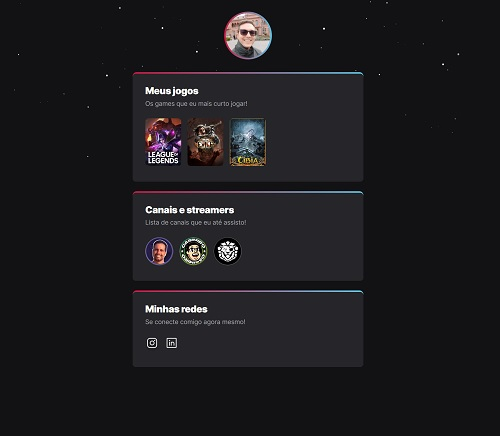
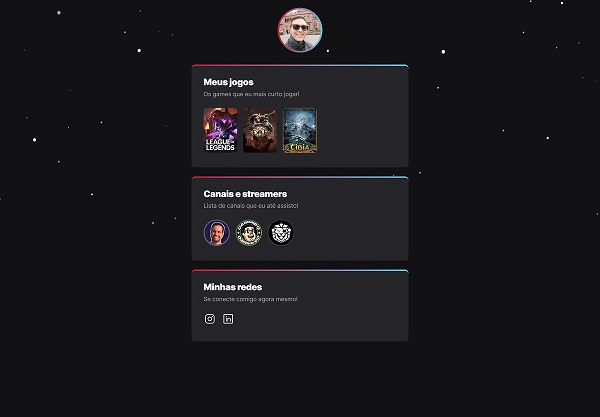
changes

Changed region(s): [[0.27, 0.0, 0.72, 0.8106]]

diff --git a/style.css b/style.css
@@ -147,10 +147,14 @@ h1 {
 
 #home h1 {
   display: block;
-  width: fit-content;
+  /* width: fit-content; */
+  justify-content: center;
   position: relative;
-  margin: 10px 0px;
-  font-size: 3.5rem;
+  margin: 20px 0px;
+  padding-right: 200px;
+  font-size: 3.6rem;
+  word-break: normal;
+  text-align: center;
 }
 
 #home h3 {
@@ -326,7 +330,7 @@ h1 {
 
 #projects .projects {
   max-width: 1200px;
-  padding: 50px 5%;
+  padding: 50px 6%;
   margin: 0 auto;
   flex-direction: column;
   text-align: center;
@@ -347,9 +351,10 @@ h1 {
   justify-content: center;
   flex-direction: column;
   overflow: hidden;
-  border-radius: 10px;
+  border-radius: 20px;
   background-color: #070707;
   margin-bottom: 20px;
+  
 }
 
 #projects .projects .all-projects .project-info h3 {
@@ -360,40 +365,39 @@ h1 {
   padding: 3%;
   flex-basis: 50%;
   display: flex;
-  align-items: center;
   justify-content: center;
   flex-direction: column;
   background: linear-gradient(180deg, #202020 10%, var(--third-bg-color) 100%);
   text-align: justify;
 }
 
-#projects .project-info h1 {
-  font-weight: 500;
-  text-align: center;
-}
 
 #projects .project-info h2 {
   font-size: 1.5rem;
   font-weight: 600;
   margin-top: 5px;
   margin-bottom: 5px;
-  text-align: center;
+  text-align: left;
 }
 
 #projects .project-info h3 {
   font-weight: 400;
   margin-bottom: 10px;
   text-align: center;
+  text-align: left;
 }
 
 #projects .project-img {
   flex-basis: 50%;
   overflow: hidden;
   position: relative;
-  background-color: var(--bg-color);
+  background-size: cover;
+  background-position: center;
+  background-repeat: no-repeat;
+  cursor: pointer;
 }
 
-#projects .project-img::after {
+/* #projects .project-img::after {
   content: "";
   position: absolute;
   left: 0;
@@ -402,13 +406,13 @@ h1 {
   width: 100%;
   background-color: black;
   opacity: 0.5;
-}
+} */
 
 #projects .project-img img {
   transition: 0.3s ease transform;
 }
 
-#projects .project-item:hover .project-img img {
+#projects .project-img:hover img {
   transform: scale(1.1);
 }
 
@@ -429,9 +433,9 @@ h1 {
 }
 
 #contact .icon {
-  font-size: 40px;
+  font-size: 50px;
   margin: 0 auto;
-  margin-bottom: 5px;
+  margin-bottom: 10px;
 }
 
 #contact .contact {
@@ -444,21 +448,18 @@ h1 {
   overflow: hidden; */
 }
 
-#contact .contact-items {
-}
-
 #contact .contact-item {
   background-color: var(--third-bg-color);
   text-align: center;
   border-radius: 10px;
   margin: 40px;
-  padding: 20px;
+  padding: 30px;
   display: flex;
   justify-content: center;
   align-items: center;
   flex-direction: column;
-  box-shadow: 0px 0px 18px 0 var(--third-bg-color);
   transition: 0.3s ease box-shadow;
+  cursor: pointer;
 }
 
 #contact .contact-item h2 {
@@ -466,7 +467,8 @@ h1 {
 }
 
 #contact .contact-item:hover {
-  box-shadow: 0px 0px 5px 0 var(--text-color);
+  background-color: var(--second-bg-color);
+  /* box-shadow: 0px 0px 5px 0 var(--text-color); */
 }
 
 /*Termino Contato*/
@@ -620,10 +622,20 @@ h1 {
     margin: 0 auto;
     flex-direction: column;
     text-align: center;
+    justify-content: center;
+    
   }
+
+  #projects .project-item {
+    margin: 0 auto;
+    padding: 0 auto;
+
+  }
+
 
   #projects .all-projects {
     margin-top: 30px;
+    
   }
 
   #projects h3 {
@@ -646,22 +658,20 @@ h1 {
   }
 
   #projects .project-item {
-    padding-top: 0px;
     flex-direction: row;
     width: 100%;
     height: 100%;
-    margin: 0 auto;
-    padding: 0px 0px 0;
     border-radius: 0;
+    justify-content: center;
+    align-items: center;
   }
 
   #projects .all-projects .project-info {
     height: 100%;
+    align-items: center;
+    justify-content: center;
   }
 
-  #projects .all-projects .project-img {
-    height: 100%;
-  }
 
   /* Contato */
 
@@ -679,9 +689,10 @@ h1 {
   #contact .contact-items {
     flex-direction: row;
     align-items: center;
+    justify-content: center;
     display: flex;
     padding: 0px 0;
-    margin: 0;
+    margin: 20px;
   }
 
   #contact h2 {
@@ -698,7 +709,7 @@ h1 {
 
   #contact .contact-item {
     flex-direction: column;
-    margin: 30px 10px;
+    margin: 20px 10px;
     padding: 10px 0px;
     min-height: 250px;
     min-width: 250px;

diff --git a/index.html b/index.html
@@ -44,7 +44,7 @@
             <div>
                 <h1>LFS <span>DEV</span>
                 </h1>
-                <h2><span class="type"></span></h2>
+                <!-- <h2><span class="type"></span></h2> -->
                 <!-- <a href="#about" type="button" class="cta">Saiba Mais</a> -->
             </div>
         </div>
@@ -129,29 +129,33 @@
             <div class="all-projects">
                 <div class="project-item">
                     <div class="project-info">
-                        <h2>NLW eSports Explorer</h2>
+                        <h2>NLW e<span>S</span>ports Explorer</h2>
                         <h3>HTML e CSS</h3>
                         <p>Este site foi feito durante o <i>bootcamp</i> online de uma semana
                             do grupo Rocketseat. Através deste curso tomei conhecimento de
-                            de ferramentas como Git, GitHub, Figma e diversas outras.
+                            de ferramentas como Git, GitHub, Figma e diversas outras. Você pode acessar o site clicando na imagem.
                         </p>
                     </div>
                     <div class="project-img">
-                        <img src="./img/two.jpg" alt="Segundo Projeto">
+                        <a href="https://druidgwind.github.io/nlw-esports-explorer/" target="_blank" style="color:white">
+                            <img src="./img/two.jpg" alt="Segundo Projeto">
+                        </a>
                     </div>
                 </div>
                 <div class="project-item">
                     <div class="project-info">
-                        <h2>LFS DEV</h2>
+                        <h2>LFS <span>DEV</span></h2>
                         <h3>HTML, CSS e JavaScript</h3>
                         <p>Este é meu primeiro projeto próprio, <i>Mobile First</i>, feito a partir de
                             algumas horas de aulas de CSS e HTML. O JavaScript é bem sutil,
                             visando uma melhor responsividade do site em dispositivos
-                            mobile.
+                            mobile. Clique para ir para a página inicial.
                         </p>
                     </div>
                     <div class="project-img">
-                        <img src="./img/one.jpg" alt="LFS DEV">
+                        <a href="#home">
+                            <img src="./img/one.jpg" alt="LFS DEV">
+                        </a>
                     </div>
                 </div>
             </div>
@@ -174,7 +178,7 @@
                     </div>
                     <div class="contact-info">
                         <h2>Telefone</h2>
-                        <p>+55 (45) 98429-5618</hp>
+                        <p>+55 (45)98429-5618</hp>
                     </div>
                 </div>
                 <div class="contact-item">
@@ -212,15 +216,16 @@
                 <div class="social-item">
                     <a href="https://www.instagram.com/druidgwind/" target="_blank" style="color:white">
                         <ion-icon name="logo-instagram"></ion-icon>
-                </div>
-                <div class="social-item">
-                    <a href="https://www.linkedin.com/in/lucaslfs/" target="_blank" style="color:white"></a>
-                    <ion-icon name="logo-linkedin"></ion-icon>
                     </a>
                 </div>
                 <div class="social-item">
-                    <a href="https://github.com/Druidgwind/" target="_blank" style="color:white"></a>
-                    <ion-icon name="logo-github"></ion-icon>
+                    <a href="https://www.linkedin.com/in/lucaslfs/" target="_blank" style="color:white">
+                        <ion-icon name="logo-linkedin"></ion-icon>
+                    </a>
+                </div>
+                <div class="social-item">
+                    <a href="https://github.com/Druidgwind/" target="_blank" style="color:white">
+                        <ion-icon name="logo-github"></ion-icon>
                     </a>
                 </div>
             </div>
